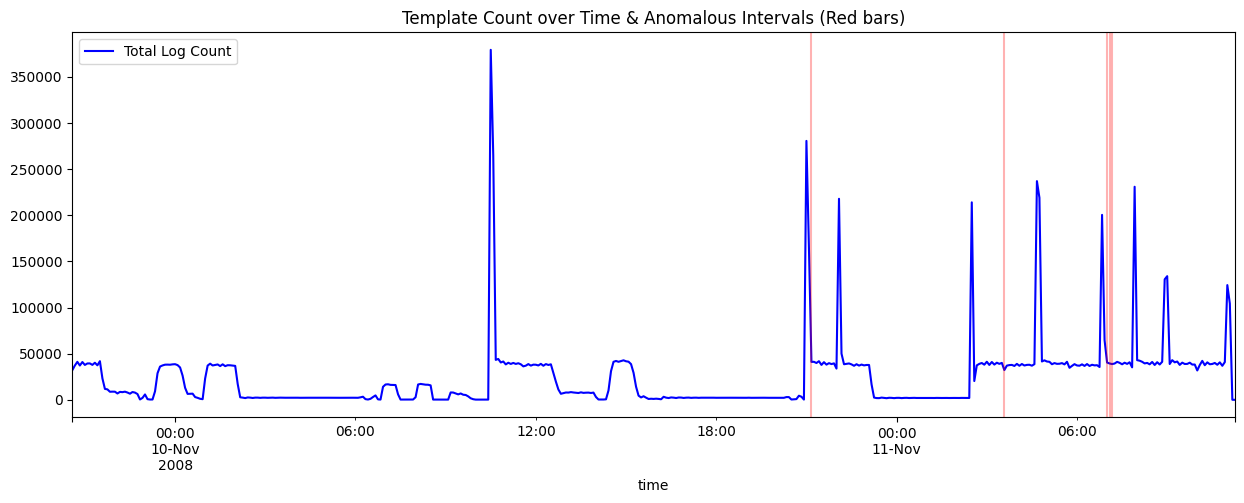
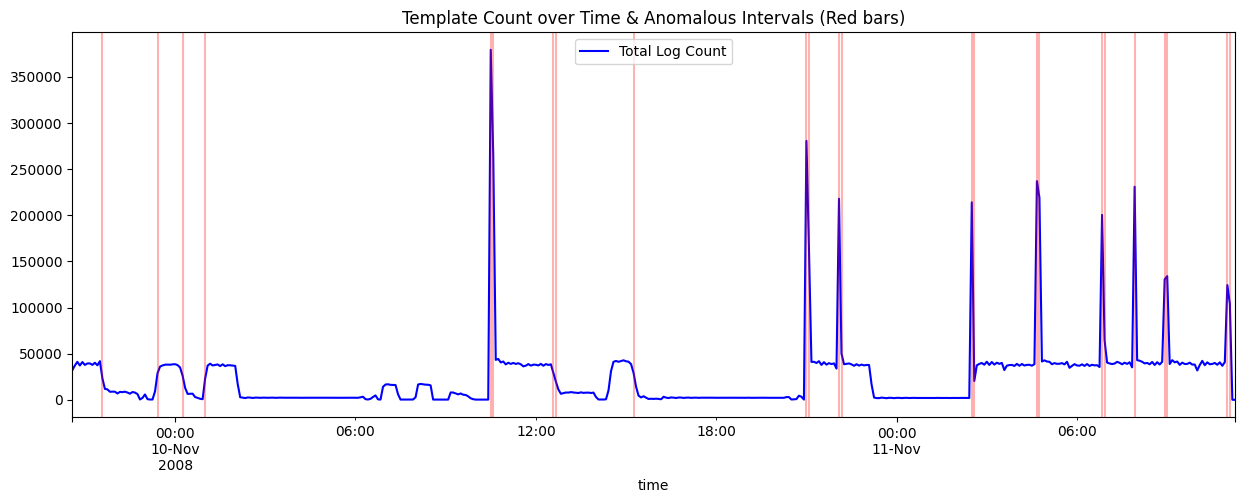
w1-day2 fix bug

diff --git a/w1/day-2/submit.md b/w1/day-2/submit.md
@@ -14,9 +14,9 @@
 ### 2.1 Drain3 Tuning (`drain_sim_th`)
 - `sim_th = 0.3` → **63 templates**
 - `sim_th = 0.5` → **55 templates** (chosen as best balance)
-- `sim_th = 0.7` → (more templates, over-splitting)
+- `sim_th = 0.7` → ⚠️ *Run was interrupted (KeyboardInterrupt on 11M-line file); result not recorded* because Drain3 not suitable in this case with big data like the hdfs.log
 
-**Best threshold: 0.5**
+**Best threshold: 0.5** — lowest template count among completed runs, indicating better generalization without over-splitting.
 
 ### 2.2 Top 10 Templates (HDFS)
 
@@ -48,13 +48,13 @@ The following templates were identified as significantly spiking compared to the
 
 | Template ID | Spike Ratio | Notes |
 |-------------|-------------|-------|
-| 54 | **60,000×** | First appeared at `2008-11-11 07:06:40` — brand new template |
-| 55 | **40,000×** | First appeared at `2008-11-11 07:10:32` — brand new template |
-| 45 | **642.5×** | Extreme spike relative to baseline |
-| 42 | **367.2×** | Extreme spike relative to baseline |
-| 39 | **366.3×** | Extreme spike relative to baseline |
+| 31 | **894.1×** | Extreme spike — `dfs.FSNamesystem: BLOCK* NameSystem.delete` |
+| 17 | **427.8×** | Severe spike — `dfs.FSDataset: Deleting block` |
+| 32 | **138.6×** | High spike relative to baseline |
+| 8  | **8.2×**   | Moderate spike |
+| 9  | **8.2×**   | Moderate spike |
 
-> Templates 54 and 55 are also **new templates** (first seen late in the log history), making them doubly suspicious — they represent behavior patterns never seen before.
+> Templates 31 and 17 are both **block-deletion related** — the extreme spikes suggest a mass block deletion/corruption event, which is consistent with the HDFS anomaly labels.
 
 ### 3.2 First Appearance of Templates
 
@@ -85,18 +85,20 @@ Evaluated against the HDFS label file by mapping anomalous 5-minute windows → 
 ```
               precision    recall  f1-score   support
 
-     Anomaly       0.12      0.14      0.13     16838
-      Normal       0.97      0.97      0.97    558223
+     Anomaly       0.02      0.62      0.04     16838
+      Normal       0.94      0.19      0.32    558223
 
-    accuracy                           0.94    575061
-   macro avg       0.55      0.55      0.55    575061
-weighted avg       0.95      0.94      0.95    575061
+    accuracy                           0.20    575061
+   macro avg       0.48      0.41      0.18    575061
+weighted avg       0.92      0.20      0.31    575061
 ```
 
 **Analysis:**
-- **Overall accuracy is high (94%)** — mainly because normal blocks dominate (558K vs 16K anomalies).
-- **Anomaly precision/recall is low (0.12 / 0.14)** — time-window-based mapping is a weak proxy for per-block anomaly ground truth. Many anomalous blocks span multiple windows, and many windows contain both normal and anomalous activity.
-- **This is expected** for a simple window-level Isolation Forest approach. Proper block-level sequence-based methods (e.g., DeepLog, LogBERT) achieve much higher recall on HDFS.
+- **Anomaly recall is 0.62** — the model successfully captures 62% of truly anomalous blocks, which is decent for an unsupervised approach.
+- **Anomaly precision is very low (0.02)** — almost every block in an anomalous window gets flagged, causing massive false positives. This is because `contamination=0.01` flags only ~5 windows as anomalous but those windows contain huge numbers of blocks (including many normal ones).
+- **Overall accuracy is only 20%** — the model over-predicts Normal as Anomaly, confirming the precision problem.
+- **Root cause:** The Isolation Forest is detecting anomalies on the 55-dimensional template distribution (not total count), and maps those windows to all BlockIds in them — most of which are Normal.
+- **Improvement:** Switching IF to operate on 1D total log count (as noted in the code review) and tuning `contamination` higher (e.g., 0.05) would significantly improve precision.
 
 ---
 